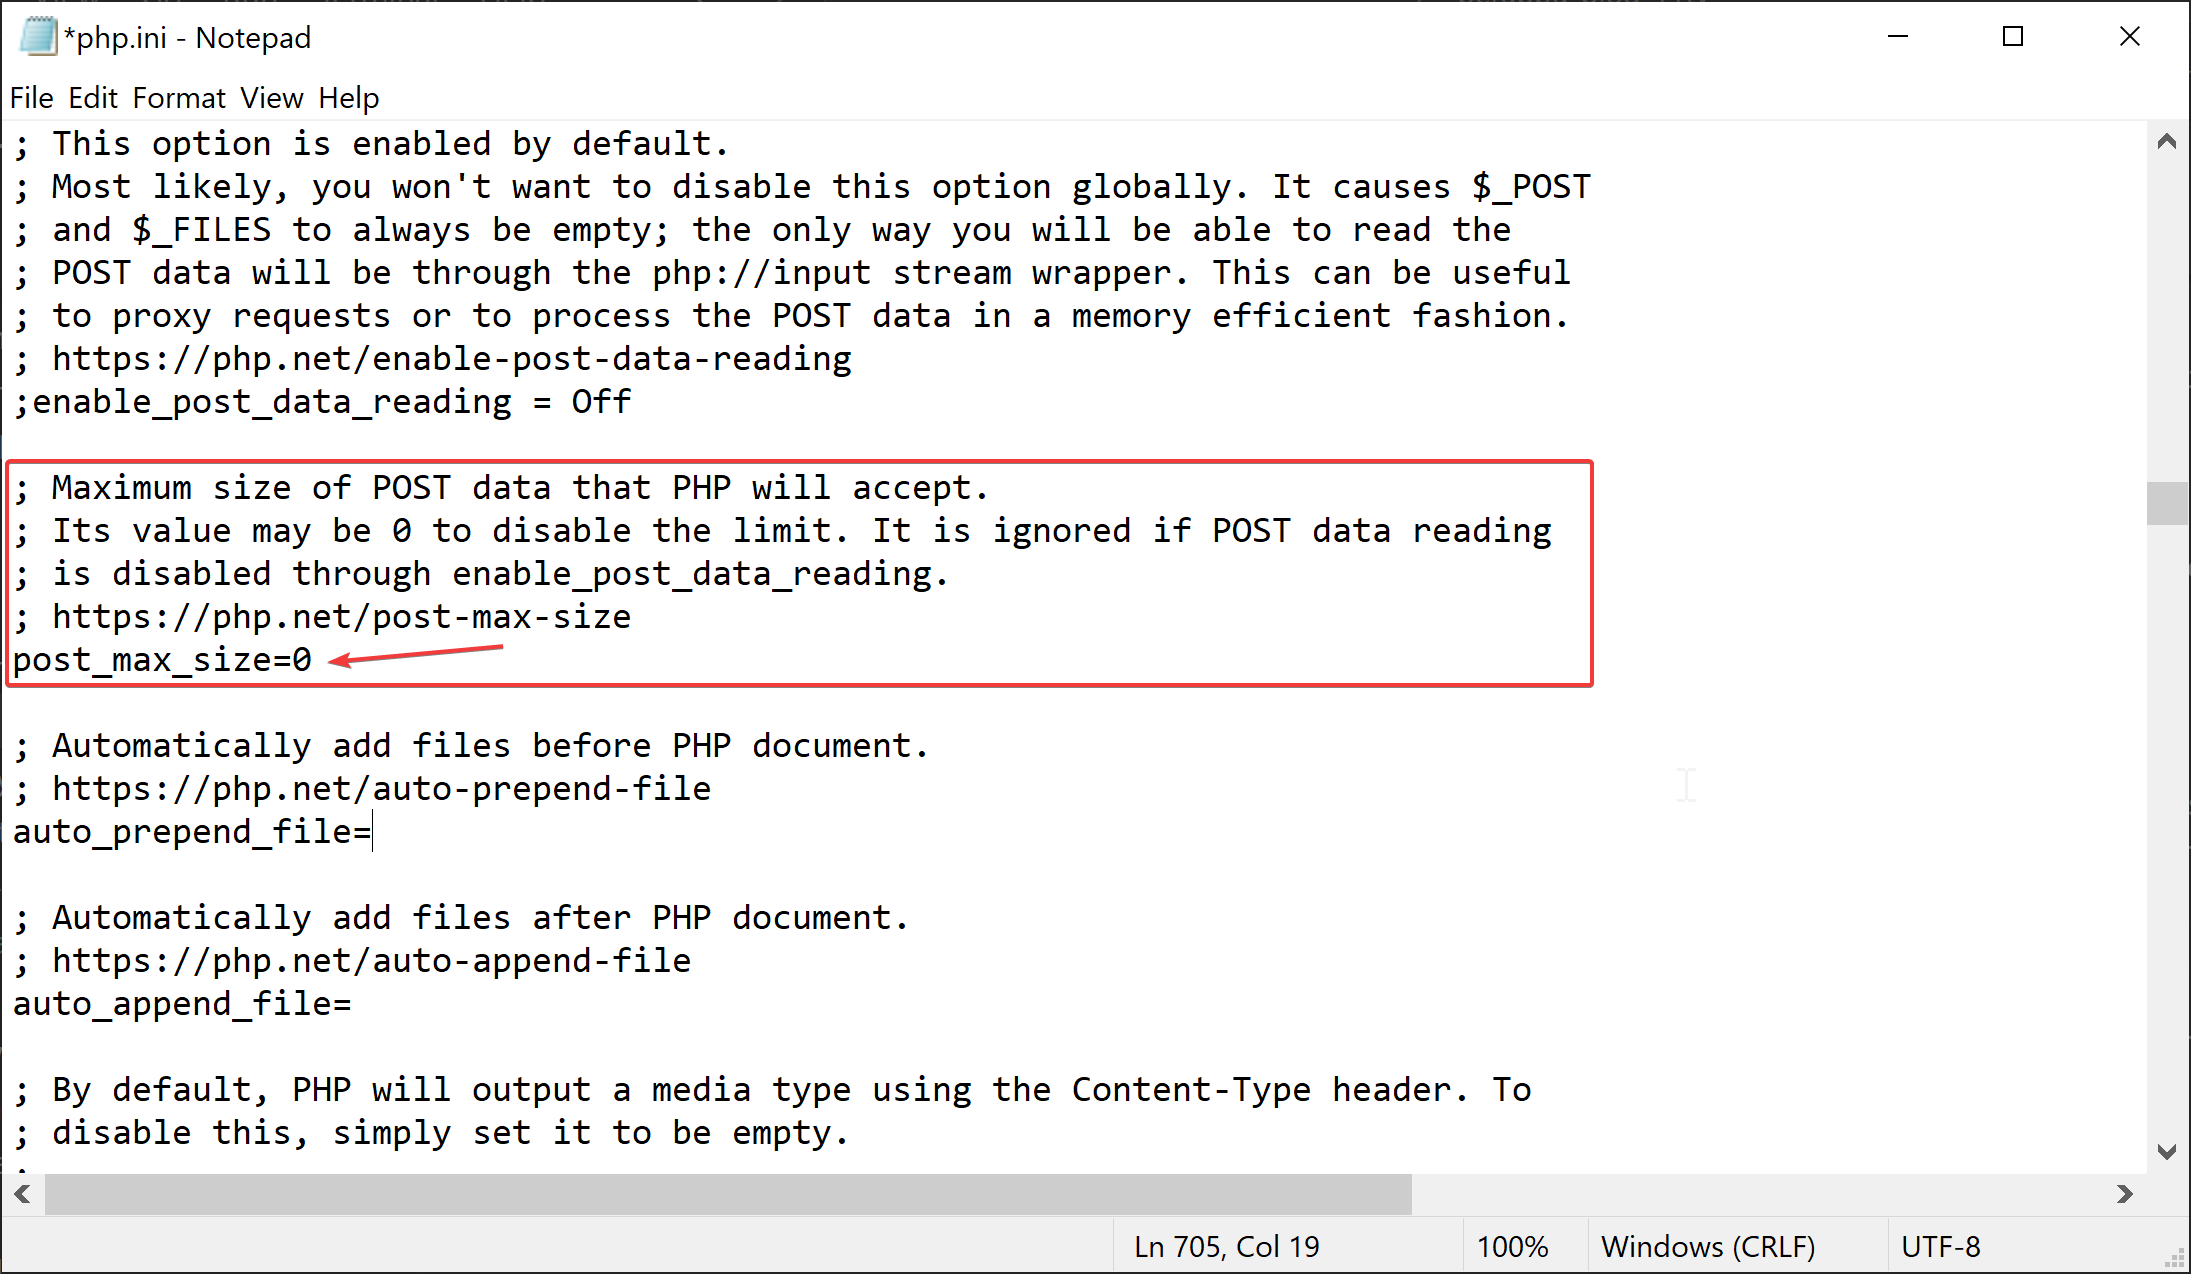
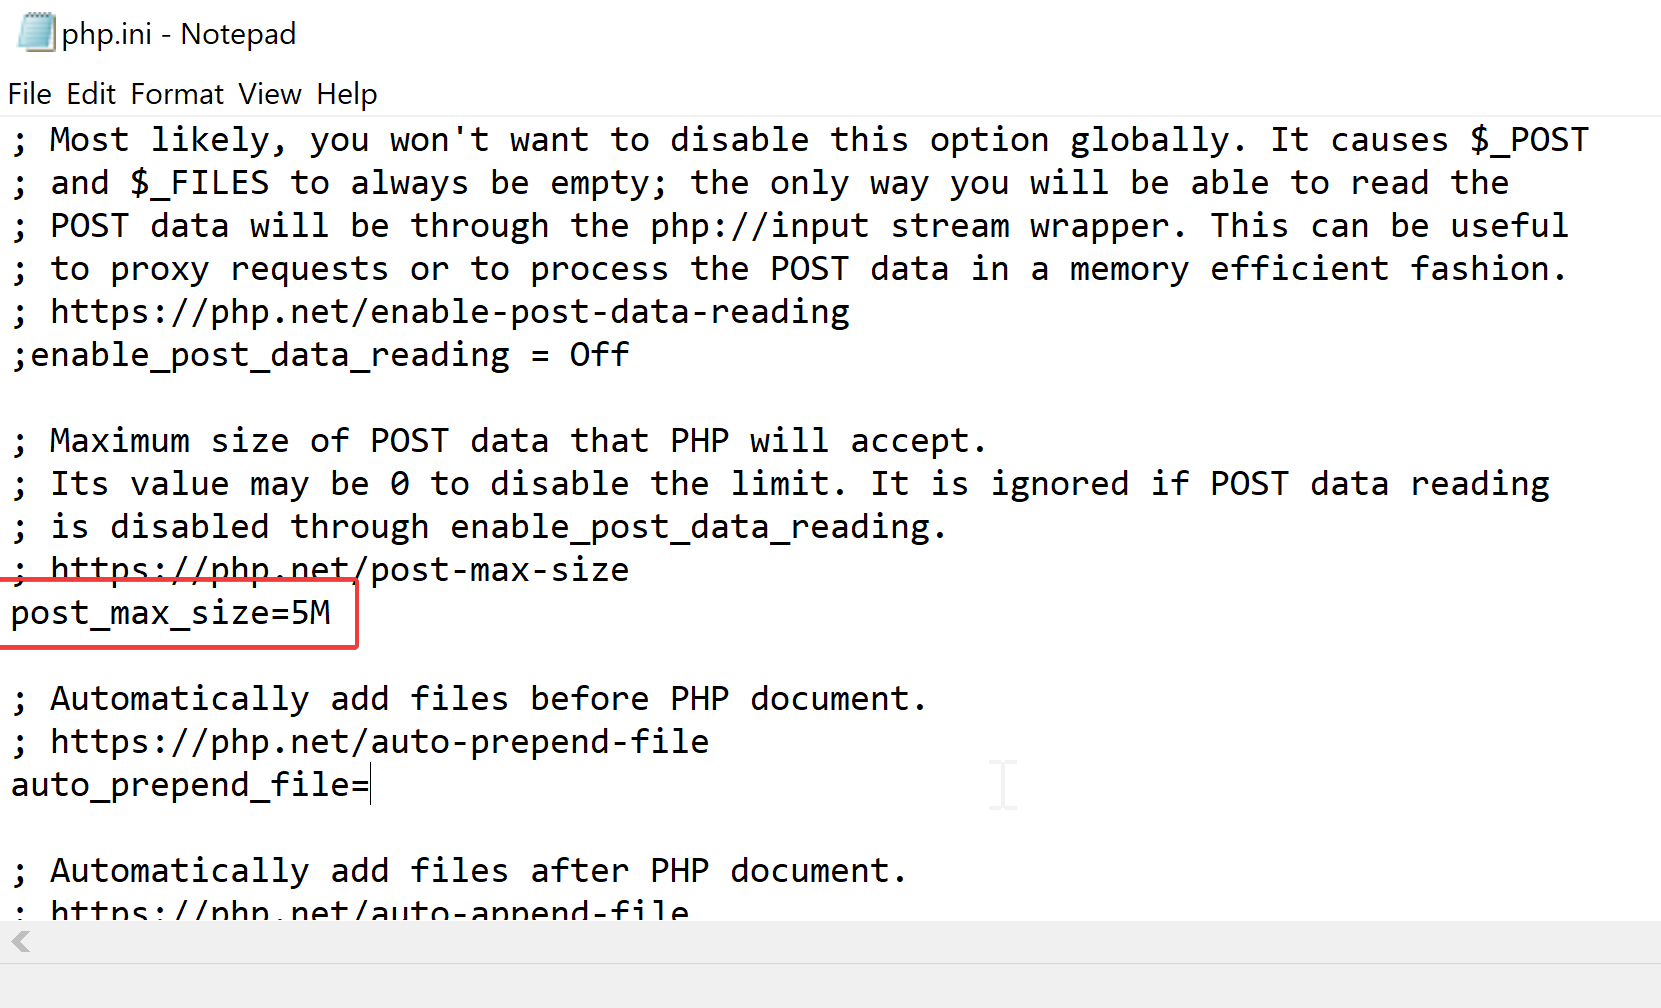
feat(guides): recommended tweaks to windows local guides

diff --git a/docs/guides/software-setup/software-windows.md b/docs/guides/software-setup/software-windows.md
@@ -95,11 +95,13 @@ Within this guide, we will be installing the following software:
   ![Opening the PHP.ini in XAMPP](../../images/software-setup/windows/xampp-php-ini.png){ width="600" }
 </figure>
 
-2. A file should open up in Notepad. We are going to change two values. First, use the search feature (Ctrl + F) or simply scroll down until you see `post_max_size`. This controls how large the files are that you can upload. Change this to `0` on your local *only*.
+2. A file should open up in Notepad. We are going to change two values. First, use the search feature (Ctrl + F) or simply scroll down until you see `post_max_size`. This controls how large the files are that you can upload. Change this to a number similar to what you'll use on your live website. If you don't know yet, change it to `5M` (five megabytes).
 
 <figure markdown="span">
   ![Editing the post_max_size variable](../../images/software-setup/windows/xampp-post-max.png){ width="600" }
 </figure>
+
+![alt text](image.png)
 
 3. The next value we change is `upload_max_filesize`. I like to change this to abnormally high on my local, but make it whatever feels right for you. To change it to 10 megabytes, for example, put a value of `10M`.
 

diff --git a/docs/guides/dev-setup/dev-windows.md b/docs/guides/dev-setup/dev-windows.md
@@ -365,3 +365,5 @@ You have finished installing a local copy of Lorekeeper. You can login as the ad
 <figure markdown="span">
   ![alt text](../../images/dev-setup/windows/running-lk-14.png){ width="600" }
 </figure>
+
+When you are ready, you can move onto [configuration or setting up a live website](../setup-index.md).
